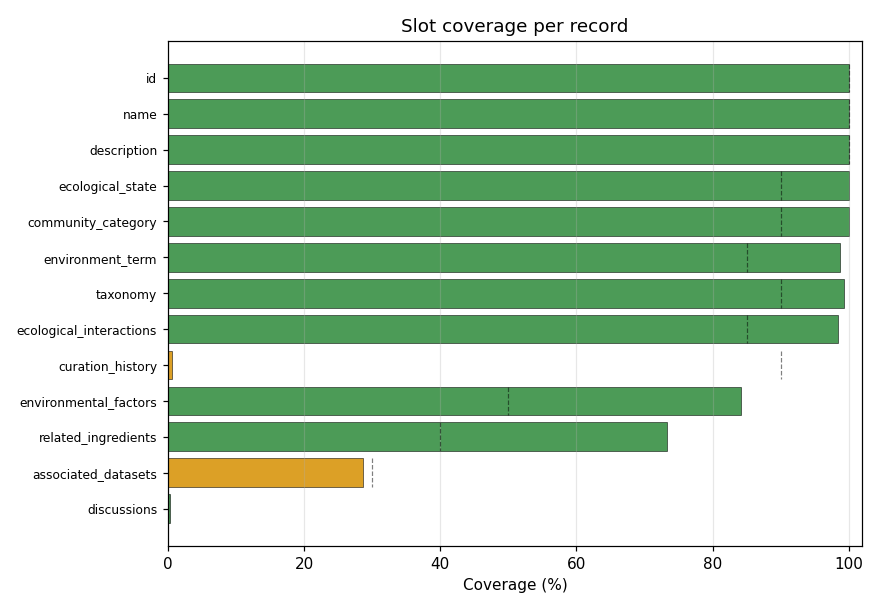
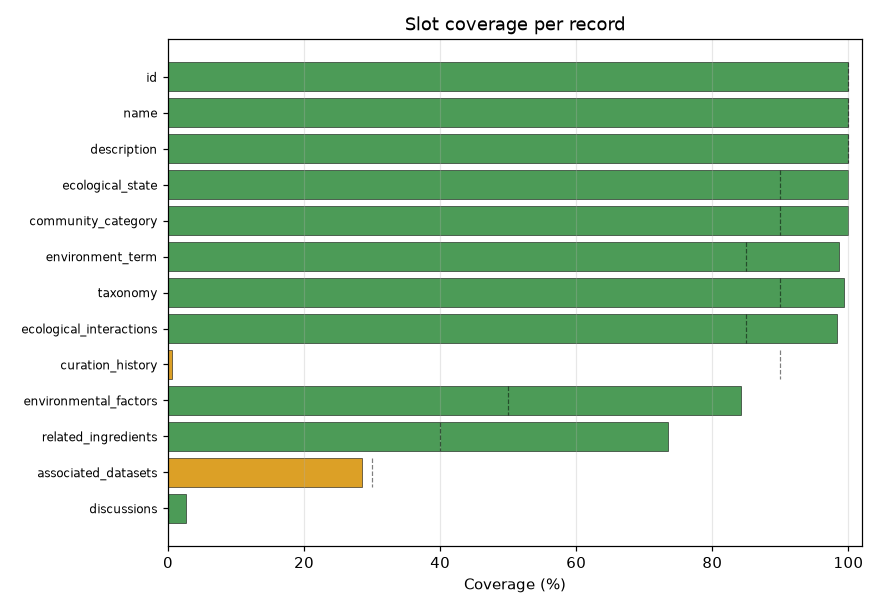
Regenerate stale derived artifacts, fixing an empty discussions browser
app/discussions/data.js was committed as window.searchData = [] — completely
empty — while the corpus carries 8 discussions across 8 records. The browser has
therefore been showing nothing. Regenerating populates it.

The dashboard was likewise stale. Both were regenerated while verifying the
portability changes.

diff --git a/app/discussions/data.js b/app/discussions/data.js
@@ -1,8 +1,189 @@
-window.searchData = [];
+window.searchData = [
+ {
+  "discussion_id": "kg-dv-acetate-co2-to-mc-methanogenesis",
+  "prompt": "Does D. vulgaris fermentation of lactate to acetate and CO2 causally enhance acetoclastic methanogenesis by M. concilii, i.e. is there a second (D. vulgaris-derived) carbon route to methane beyond the direct R. cellulolyticum \u2192 M. concilii hand-off?",
+  "kind": "KNOWLEDGE_GAP",
+  "status": "OPEN",
+  "is_gap": "Knowledge gap",
+  "source_name": "Cellulose-to-Methane Quad-Culture SynCom",
+  "source_id": "CommunityMech:000089",
+  "source_file": "Cellulose_Methane_Quad_Culture_SynCom.yaml",
+  "attaches_to": [
+   "ecological_interactions#R. cellulolyticum acetate cross-feeding to M. concilii"
+  ],
+  "rationale": "If confirmed, D. vulgaris would be a secondary acetate/CO2 supplier to the acetoclastic methanogen, adding a parallel carbon route to methane and changing how the causal graph attributes methane output between the two carbon sources. The source paper proposes it mechanistically (\"it may be\") but does not demonstrate the D. vulgaris \u2192 M. concilii carbon edge directly, so it is recorded here as a knowledge gap rather than asserted as an ecological interaction.",
+  "num_experiments": 0,
+  "num_evidence": 1,
+  "evidence_refs": [
+   "PMID:36847519"
+  ],
+  "posed_by": "",
+  "page_url": "../docs/communities/Cellulose_Methane_Quad_Culture_SynCom.html#kg-dv-acetate-co2-to-mc-methanogenesis"
+ },
+ {
+  "discussion_id": "kg-dietsimp-proposed-diet-no-causal-edge",
+  "prompt": "Are the S. globosa\u2192M. mazei and C. aceticum\u2192M. mazei DIET pathways experimentally validated (direct interspecies electron transfer vs H2/formate mediation), and is there any causal dependency between the two parallel donor\u2192methanogen relationships?\n",
+  "kind": "KNOWLEDGE_GAP",
+  "status": "OPEN",
+  "is_gap": "Knowledge gap",
+  "source_name": "DIET-based Simplified Lignocellulose-to-Methane Consortia (DIETsimp)",
+  "source_id": "CommunityMech:000297",
+  "source_file": "DIETsimp_Lignocellulose_to_Methane_DIET_Consortia.yaml",
+  "attaches_to": [
+   "ecological_interactions#DIET syntrophy from S. globosa to M. mazei",
+   "ecological_interactions#DIET syntrophy from C. aceticum to M. mazei"
+  ],
+  "rationale": "An Edison causal-graph pass (PMID:42229598) found no justifiable directed causal edge for this consortium: both interactions are recorded as \"Proposed DIET pathway\", the primary full text was inaccessible, and no perturbation (donor-removal, inhibitor, mono-/co-culture, or knockout) evidence was retrieved. The source supports two parallel donor\u2192methanogen proposals, not a causal dependency of one on the other, so no `downstream` edge was added. Neutral-red-mediated electron delivery to M. mazei reported in a different system must not be imported here without exact-system verification.\n",
+  "num_experiments": 0,
+  "num_evidence": 1,
+  "evidence_refs": [
+   "PMID:42229598"
+  ],
+  "posed_by": "",
+  "page_url": "../docs/communities/DIETsimp_Lignocellulose_to_Methane_DIET_Consortia.html#kg-dietsimp-proposed-diet-no-causal-edge"
+ },
+ {
+  "discussion_id": "kg-geobacter-clostridium-contact-dependence-contested",
+  "prompt": "Is the G. sulfurreducens-induced metabolic shift in C. pasteurianum actually caused by contact-dependent direct interspecies electron transfer along conductive pili, or by a diffusible mediator (candidate: a cobamide) released by G. sulfurreducens?\n",
+  "kind": "CONTROVERSY",
+  "status": "OPEN",
+  "is_gap": "Other discussion",
+  "source_name": "Geobacter-Clostridium Interspecies Electron Transfer Coculture",
+  "source_id": "CommunityMech:000031",
+  "source_file": "Geobacter_Clostridium_Interspecies_Electron_Transfer_Coculture.yaml",
+  "attaches_to": [
+   "ecological_interactions#Acetate Oxidation and Interspecies Electron Transfer",
+   "ecological_interactions#Glycerol Fermentation with Electron-Transfer-Induced Metabolic Shift"
+  ],
+  "rationale": "RE-SCOPED (was: this record asserted contact-dependent DIET as established). Caching the open-access full text of the discovery study (PMID:28287150, PMC5347079) showed the contact/nanowire mechanism was never supported by it. \"Pili\" and \"nanowires\" appear there only as general background about Geobacter species, and its own discussion states the opposite of what this record claimed: pre-cultures were \"constituted of both nanowire-rich aggregates and nanowire-poor planktonic cells\", and growing G. sulfurreducens on conductive material is offered as a future option \"to ensure electrical connections\" - i.e. electrical connection was NOT established in these experiments. Several evidence items had also cited that generic background sentence, or the unrelated \"sole electron acceptor\" sentence, as if they demonstrated contact-mediated transfer between these two organisms.\nAccordingly: `community_category` moved DIET -> SYNTROPHY (the schema defines DIET specifically as \"Direct interspecies electron transfer\", a mechanism claim no source supports here); pili/nanowire assertions were removed from the description, environment notes, taxon notes, and the interaction; the interactions were renamed to mechanism-neutral forms; and the \"Cell Contact and Nanowire Formation\" environmental factor became \"Electrical Connection Between Cells\", recording that connection was not established.\nThe competing mechanism is NOT asserted in its place. The follow-up (PMID:34939136) concludes the interaction \"is mediated\" and proposes a diffusible cobamide acting on glycerol dehydratase, with a transmembrane flavin-bound polyferredoxin / cytochrome b5-rubredoxin electron-entry route offered only as putative reinforcement - and that paper calls its own model \"putative\". It is not open access, so only its abstract is snippet-verifiable here; its reported 0.22-um-filtered cell-free spent-medium result, which would show Geobacter cells are unnecessary for the shift, remains unverified against full text. STILL OPEN: which route actually carries the electrons, and whether the record's `name` and filename (both still say \"DIET\") should be changed - those affect external references and were left to a curator.\n",
+  "num_experiments": 0,
+  "num_evidence": 3,
+  "evidence_refs": [
+   "PMID:34939136",
+   "PMID:34939136",
+   "PMID:34939136"
+  ],
+  "posed_by": "",
+  "page_url": "../docs/communities/Geobacter_Clostridium_Interspecies_Electron_Transfer_Coculture.html#kg-geobacter-clostridium-contact-dependence-contested"
+ },
+ {
+  "discussion_id": "kg-geobacter-methanosaeta-acetate-route-unresolved",
+  "prompt": "Alongside DIET-driven CO2 reduction, does M. harundinacea also cross-feed on the acetate generated by G. metallireducens ethanol oxidation, and what fraction of methane comes from each route in this defined coculture?\n",
+  "kind": "KNOWLEDGE_GAP",
+  "status": "OPEN",
+  "is_gap": "Knowledge gap",
+  "source_name": "Geobacter-Methanosaeta DIET Community",
+  "source_id": "CommunityMech:000032",
+  "source_file": "Geobacter_Methanosaeta_DIET.yaml",
+  "attaches_to": [
+   "ecological_interactions#Ethanol Oxidation and Direct Electron Transfer",
+   "ecological_interactions#Direct Electron Acceptance and Methanogenesis"
+  ],
+  "rationale": "A causal-graph pass on this record proposed an additional acetate cross-feeding node and an acetate -> methanogenesis edge, on the reasoning that Methanosaeta is classically an acetoclastic genus and that ethanol oxidation by G. metallireducens yields acetate, giving an overall stoichiometry near 1.5 mol CH4 per mol ethanol. That claim is NOT curated here as an interaction: the primary source (doi:10.1039/C3EE42189A) is cached abstract-only and its full text was not retrievable, and the abstract states only that M. harundinacea \"accepted electrons via DIET for the reduction of carbon dioxide to methane\" - it does not report acetate cross-feeding, the acetate/DIET split, or the per-route methane stoichiometry. The supporting quotations offered for the acetate route came from secondary reviews attributing findings to this study, which per this repo's conservative-curation rule (see CommunityMech:000176) is not a sufficient basis for an exact-system causal edge. Resolving this needs the primary full text or a radiotracer/isotope partition experiment in this exact coculture.\n",
+  "num_experiments": 0,
+  "num_evidence": 1,
+  "evidence_refs": [
+   "doi:10.1039/C3EE42189A"
+  ],
+  "posed_by": "",
+  "page_url": "../docs/communities/Geobacter_Methanosaeta_DIET.html#kg-geobacter-methanosaeta-acetate-route-unresolved"
+ },
+ {
+  "discussion_id": "kg-ornl-exchanged-products-and-edge-strength",
+  "prompt": "Which exact C. cellulolyticum fermentation products are transferred to D. vulgaris and G. sulfurreducens, and is the electron-acceptor to cross-feeding coupling perturbation-demonstrated rather than only abstract-level implied?\n",
+  "kind": "KNOWLEDGE_GAP",
+  "status": "OPEN",
+  "is_gap": "Knowledge gap",
+  "source_name": "ORNL Clostridium-Desulfovibrio-Geobacter Trophic Model Community",
+  "source_id": "CommunityMech:000176",
+  "source_file": "ORNL_Clostridium_Desulfovibrio_Geobacter_Trophic_Model.yaml",
+  "attaches_to": [
+   "ecological_interactions#Sulfate-Linked Dependence of D. vulgaris",
+   "ecological_interactions#Fumarate-Linked Dependence of G. sulfurreducens"
+  ],
+  "rationale": "The curated donor-to-partner causal edges rest on the abstract statement that the partners \"derived carbon and energy from the metabolic products\" of C. cellulolyticum; the primary full text (doi:10.1186/1471-2180-10-149) was not retrievable, so the exact exchanged metabolites and any sulfate/fumarate-removal or inhibitor perturbation evidence remain unresolved. Products reported for a related two-species C. cellulolyticum / G. sulfurreducens fuel-cell system (acetate, ethanol, H2) must NOT be imported here without exact-system verification.\n",
+  "num_experiments": 0,
+  "num_evidence": 1,
+  "evidence_refs": [
+   "doi:10.1186/1471-2180-10-149"
+  ],
+  "posed_by": "",
+  "page_url": "../docs/communities/ORNL_Clostridium_Desulfovibrio_Geobacter_Trophic_Model.html#kg-ornl-exchanged-products-and-edge-strength"
+ },
+ {
+  "discussion_id": "kg-syntrophobacter-methanobacterium-partner-attribution",
+  "prompt": "Which curated claims about this consortium rest on exact-pair (S. fumaroxidans + M. formicicum) evidence, and which were imported from S. fumaroxidans + M. hungatei experiments?\n",
+  "kind": "KNOWLEDGE_GAP",
+  "status": "OPEN",
+  "is_gap": "Knowledge gap",
+  "source_name": "Syntrophobacter-Methanobacterium Syntrophic Consortium",
+  "source_id": "CommunityMech:000068",
+  "source_file": "Syntrophobacter_Methanobacterium_Syntrophy.yaml",
+  "attaches_to": [
+   "ecological_interactions#Propionate Oxidation and H2/Formate Production",
+   "ecological_interactions#Interspecies Electron Transfer and Methanogenesis"
+  ],
+  "rationale": "Several evidence items on this record quote doi:10.1099/00207713-48-4-1383 (Harmsen et al. 1998), whose syntrophic coculture passage names *Methanospirillum hungateii*, not this record's partner *Methanobacterium formicicum*. Two of those items previously carried explanations asserting that the passage established M. formicicum as the partner; they have been corrected and downgraded to PARTIAL, and exact-pair support has been added from PMID:29611893 (Sedano-Nunez et al. 2018), which explicitly grew S. fumaroxidans in syntrophy with M. formicicum. The residual gap: the frequently cited biochemical formate-transfer and FDH/hydrogenase transcription results for this system were obtained with M. hungatei, so carrier apportionment (\"formate is the dominant carrier\") must NOT be curated as an exact-pair finding.\nPARTLY RESOLVED: the 2024 exact-pair perturbation study (Li et al., Water 16:3551, doi:10.3390/w16243551) is now ingested - its full text was supplied by a curator from the publisher PDF, since the journal is absent from PubMed and Europe PMC and MDPI blocks programmatic download. Its graded-formate results for the exact S. fumaroxidans-M. formicicum coculture are curated under the Exogenous Formate Dosage environmental factor, and its FDH downregulation result on the Propionate Oxidation interaction. Two cautions came out of that ingestion: (a) the paper runs an anaerobic-sludge system ALONGSIDE the coculture, and sludge-only results (e.g. Acetobacterium homoacetogenesis rising with formate dose) must not be attributed to this two-member consortium; (b) the dose response is non-monotonic - 30 mM recovers in the later stage - so it is NOT a simple \">=30 mM inhibits\" threshold.\nStill open: carrier apportionment between H2 and formate for the M. formicicum pair specifically, which no retrieved study resolves with an isotope or selective-inhibition experiment.\n",
+  "num_experiments": 0,
+  "num_evidence": 2,
+  "evidence_refs": [
+   "PMID:29611893",
+   "doi:10.1099/00207713-48-4-1383"
+  ],
+  "posed_by": "",
+  "page_url": "../docs/communities/Syntrophobacter_Methanobacterium_Syntrophy.html#kg-syntrophobacter-methanobacterium-partner-attribution"
+ },
+ {
+  "discussion_id": "kg-aggregation-and-diet-unverified",
+  "prompt": "Does syntrophic aggregation / cell-to-cell attraction causally enhance butyrate oxidation or methanogenesis in this coculture, and is direct interspecies electron transfer (e.g. the reported carbon-nanotube methane stimulation) involved rather than only H2/formate transfer?\n",
+  "kind": "KNOWLEDGE_GAP",
+  "status": "OPEN",
+  "is_gap": "Knowledge gap",
+  "source_name": "Syntrophomonas-Methanococcus Butyrate Growth Coordination Coculture",
+  "source_id": "CommunityMech:000189",
+  "source_file": "Syntrophomonas_Methanococcus_Butyrate_Growth_Coordination_Coculture.yaml",
+  "attaches_to": [
+   "ecological_interactions#Syntrophic Aggregation and Cell-to-Cell Attraction"
+  ],
+  "rationale": "Aggregation and disturbance-resistant cell-to-cell attraction are observed, but no experiment demonstrates that aggregation increases butyrate oxidation or methane production in this exact coculture, so no aggregation\u2192enhancement `downstream` edge was added. Likewise, carbon-nanotube acceleration of methane production is reported, but DIET \"does not always explain the enhancement of methane production\" and was not directly proven here, so a DIET mechanism is not asserted.\n",
+  "num_experiments": 0,
+  "num_evidence": 1,
+  "evidence_refs": [
+   "PMID:34603271"
+  ],
+  "posed_by": "",
+  "page_url": "../docs/communities/Syntrophomonas_Methanococcus_Butyrate_Growth_Coordination_Coculture.html#kg-aggregation-and-diet-unverified"
+ },
+ {
+  "discussion_id": "kg-es5-mediation-mechanism-unresolved",
+  "prompt": "Does T. flocculiformis ES5 improve the S. wolfei / M. hungatei syntrophy via co-aggregation-based spatial bridging (possible DIET) or via the observed proteomic changes, and is either mechanism causal rather than correlative?\n",
+  "kind": "KNOWLEDGE_GAP",
+  "status": "OPEN",
+  "is_gap": "Knowledge gap",
+  "source_name": "Trichococcus-Syntrophomonas-Methanospirillum Butyrate Coculture",
+  "source_id": "CommunityMech:000188",
+  "source_file": "Trichococcus_Syntrophomonas_Methanospirillum_Butyrate_Coculture.yaml",
+  "attaches_to": [
+   "ecological_interactions#Aggregation With Syntrophic Partners",
+   "ecological_interactions#Proteome Response in the Syntrophic Partners"
+  ],
+  "rationale": "The ES5-driven increase in butyrate consumption (120%) and methane (150%) is perturbation-supported, but the mediating mechanism is unresolved: aggregation and the partner proteome response are observed correlates, not demonstrated causal mediators (the two `downstream` edges here are flagged HYPOTHESIZED accordingly). Direct interspecies electron transfer was not experimentally demonstrated for this tri-culture, and the exact ES5 bridging role remains an open question per the source.\n",
+  "num_experiments": 0,
+  "num_evidence": 1,
+  "evidence_refs": [
+   "PMID:35699440"
+  ],
+  "posed_by": "",
+  "page_url": "../docs/communities/Trichococcus_Syntrophomonas_Methanospirillum_Butyrate_Coculture.html#kg-es5-mediation-mechanism-unresolved"
+ }
+];
 window.searchMetrics = {
- "total_discussions": 0,
- "total_knowledge_gaps": 0,
- "total_source_entries": 0,
- "kinds": []
+ "total_discussions": 8,
+ "total_knowledge_gaps": 7,
+ "total_source_entries": 8,
+ "kinds": [
+  "CONTROVERSY",
+  "KNOWLEDGE_GAP"
+ ]
 };
 window.repoName = "CommunityMech";

diff --git a/dashboard/index.html b/dashboard/index.html
@@ -35,12 +35,12 @@
 <body>
 
 <h1>CommunityMech — QC Dashboard</h1>
-<div class="meta">Generated 2026-07-21T20:53:25+00:00</div>
+<div class="meta">Generated 2026-07-31T19:22:41+00:00</div>
 
 <div class="stat-grid">
   <div class="stat">
     <div class="label">Records</div>
-    <div class="value">304</div>
+    <div class="value">305</div>
   </div>
   <div class="stat">
     <div class="label">Slots tracked</div>
@@ -48,7 +48,7 @@
   </div>
   <div class="stat">
     <div class="label">Overall coverage</div>
-    <div class="value">75.7%</div>
+    <div class="value">75.8%</div>
   </div>
   <div class="stat">
     <div class="label">FAIL slots</div>
@@ -74,7 +74,7 @@
   <tbody>
     <tr>
       <td><code>id</code></td>
-      <td class="right">304 / 304</td>
+      <td class="right">305 / 305</td>
       <td class="right">100.0%</td>
       <td class="right">100%</td>
       <td>
@@ -83,7 +83,7 @@
     </tr>
     <tr>
       <td><code>name</code></td>
-      <td class="right">304 / 304</td>
+      <td class="right">305 / 305</td>
       <td class="right">100.0%</td>
       <td class="right">100%</td>
       <td>
@@ -92,7 +92,7 @@
     </tr>
     <tr>
       <td><code>description</code></td>
-      <td class="right">304 / 304</td>
+      <td class="right">305 / 305</td>
       <td class="right">100.0%</td>
       <td class="right">100%</td>
       <td>
@@ -101,7 +101,7 @@
     </tr>
     <tr>
       <td><code>ecological_state</code></td>
-      <td class="right">304 / 304</td>
+      <td class="right">305 / 305</td>
       <td class="right">100.0%</td>
       <td class="right">90%</td>
       <td>
@@ -110,7 +110,7 @@
     </tr>
     <tr>
       <td><code>community_category</code></td>
-      <td class="right">304 / 304</td>
+      <td class="right">305 / 305</td>
       <td class="right">100.0%</td>
       <td class="right">90%</td>
       <td>
@@ -119,7 +119,7 @@
     </tr>
     <tr>
       <td><code>environment_term</code></td>
-      <td class="right">300 / 304</td>
+      <td class="right">301 / 305</td>
       <td class="right">98.7%</td>
       <td class="right">85%</td>
       <td>
@@ -128,7 +128,7 @@
     </tr>
     <tr>
       <td><code>taxonomy</code></td>
-      <td class="right">302 / 304</td>
+      <td class="right">303 / 305</td>
       <td class="right">99.3%</td>
       <td class="right">90%</td>
       <td>
@@ -137,7 +137,7 @@
     </tr>
     <tr>
       <td><code>ecological_interactions</code></td>
-      <td class="right">299 / 304</td>
+      <td class="right">300 / 305</td>
       <td class="right">98.4%</td>
       <td class="right">85%</td>
       <td>
@@ -146,7 +146,7 @@
     </tr>
     <tr>
       <td><code>curation_history</code></td>
-      <td class="right">2 / 304</td>
+      <td class="right">2 / 305</td>
       <td class="right">0.7%</td>
       <td class="right">90%</td>
       <td>
@@ -155,8 +155,8 @@
     </tr>
     <tr>
       <td><code>environmental_factors</code></td>
-      <td class="right">256 / 304</td>
-      <td class="right">84.2%</td>
+      <td class="right">257 / 305</td>
+      <td class="right">84.3%</td>
       <td class="right">50%</td>
       <td>
         <span class="badge pass">PASS</span>
@@ -164,7 +164,7 @@
     </tr>
     <tr>
       <td><code>related_ingredients</code></td>
-      <td class="right">223 / 304</td>
+      <td class="right">224 / 305</td>
       <td class="right">73.4%</td>
       <td class="right">40%</td>
       <td>
@@ -173,8 +173,8 @@
     </tr>
     <tr>
       <td><code>associated_datasets</code></td>
-      <td class="right">87 / 304</td>
-      <td class="right">28.6%</td>
+      <td class="right">87 / 305</td>
+      <td class="right">28.5%</td>
       <td class="right">30%</td>
       <td>
         <span class="badge warn">WARN</span>
@@ -182,8 +182,8 @@
     </tr>
     <tr>
       <td><code>discussions</code></td>
-      <td class="right">1 / 304</td>
-      <td class="right">0.3%</td>
+      <td class="right">8 / 305</td>
+      <td class="right">2.6%</td>
       <td class="right">0%</td>
       <td>
         <span class="badge pass">PASS</span>

diff --git a/app/discussions/index.html b/app/discussions/index.html
@@ -5,7 +5,7 @@
 <meta name="viewport" content="width=device-width, initial-scale=1">
 <title>Knowledge gaps & discussions</title>
 <style>
-  :root { --fg:#1a1a1a; --muted:#666; --line:#e2e2e2; --accent:#2a6; --bg:#fff; --card:#fff; }
+  :root { --fg:#1a1a1a; --muted:#666; --line:#e2e2e2; --accent:#2a6; --bg:#fff; }
   * { box-sizing: border-box; }
   body { font-family: -apple-system, system-ui, sans-serif; color: var(--fg); margin: 0; background: var(--bg); }
   header { padding: 1rem 1.25rem; border-bottom: 1px solid var(--line); }
@@ -27,20 +27,6 @@
   a { color: var(--accent); text-decoration: none; }
   a:hover { text-decoration: underline; }
   .empty { color: var(--muted); padding: 2rem; text-align: center; }
-  /* ---- Dark theme (OS default; superseded by the toggle) ---- */
-  @media (prefers-color-scheme: dark){
-    :root:not([data-theme="light"]){--fg:#e8ecf4; --muted:#99a2b5; --line:#2a3142; --accent:#5fbf90; --bg:#101420; --card:#1a1f2e;}
-    :root:not([data-theme="light"]) .badge{background:#243044; color:#cdd7ff;}
-    :root:not([data-theme="light"]) .badge.gap{background:#3a2330; color:#f2b8c6;}
-    :root:not([data-theme="light"]) .rationale{color:#c9d2e3;}
-  }
-  :root[data-theme="dark"]{--fg:#e8ecf4; --muted:#99a2b5; --line:#2a3142; --accent:#5fbf90; --bg:#101420; --card:#1a1f2e;}
-  :root[data-theme="dark"] .badge{background:#243044; color:#cdd7ff;}
-  :root[data-theme="dark"] .badge.gap{background:#3a2330; color:#f2b8c6;}
-  :root[data-theme="dark"] .rationale{color:#c9d2e3;}
-  @media (prefers-reduced-motion: reduce){
-    *,*::before,*::after{animation-duration:.01ms!important;animation-iteration-count:1!important;transition-duration:.01ms!important;scroll-behavior:auto!important;}
-  }
 </style>
 </head>
 <body>
@@ -137,6 +123,5 @@
   renderFacets(); render();
 })();
 </script>
-<script src="theme-toggle.js"></script>
 </body>
 </html>
